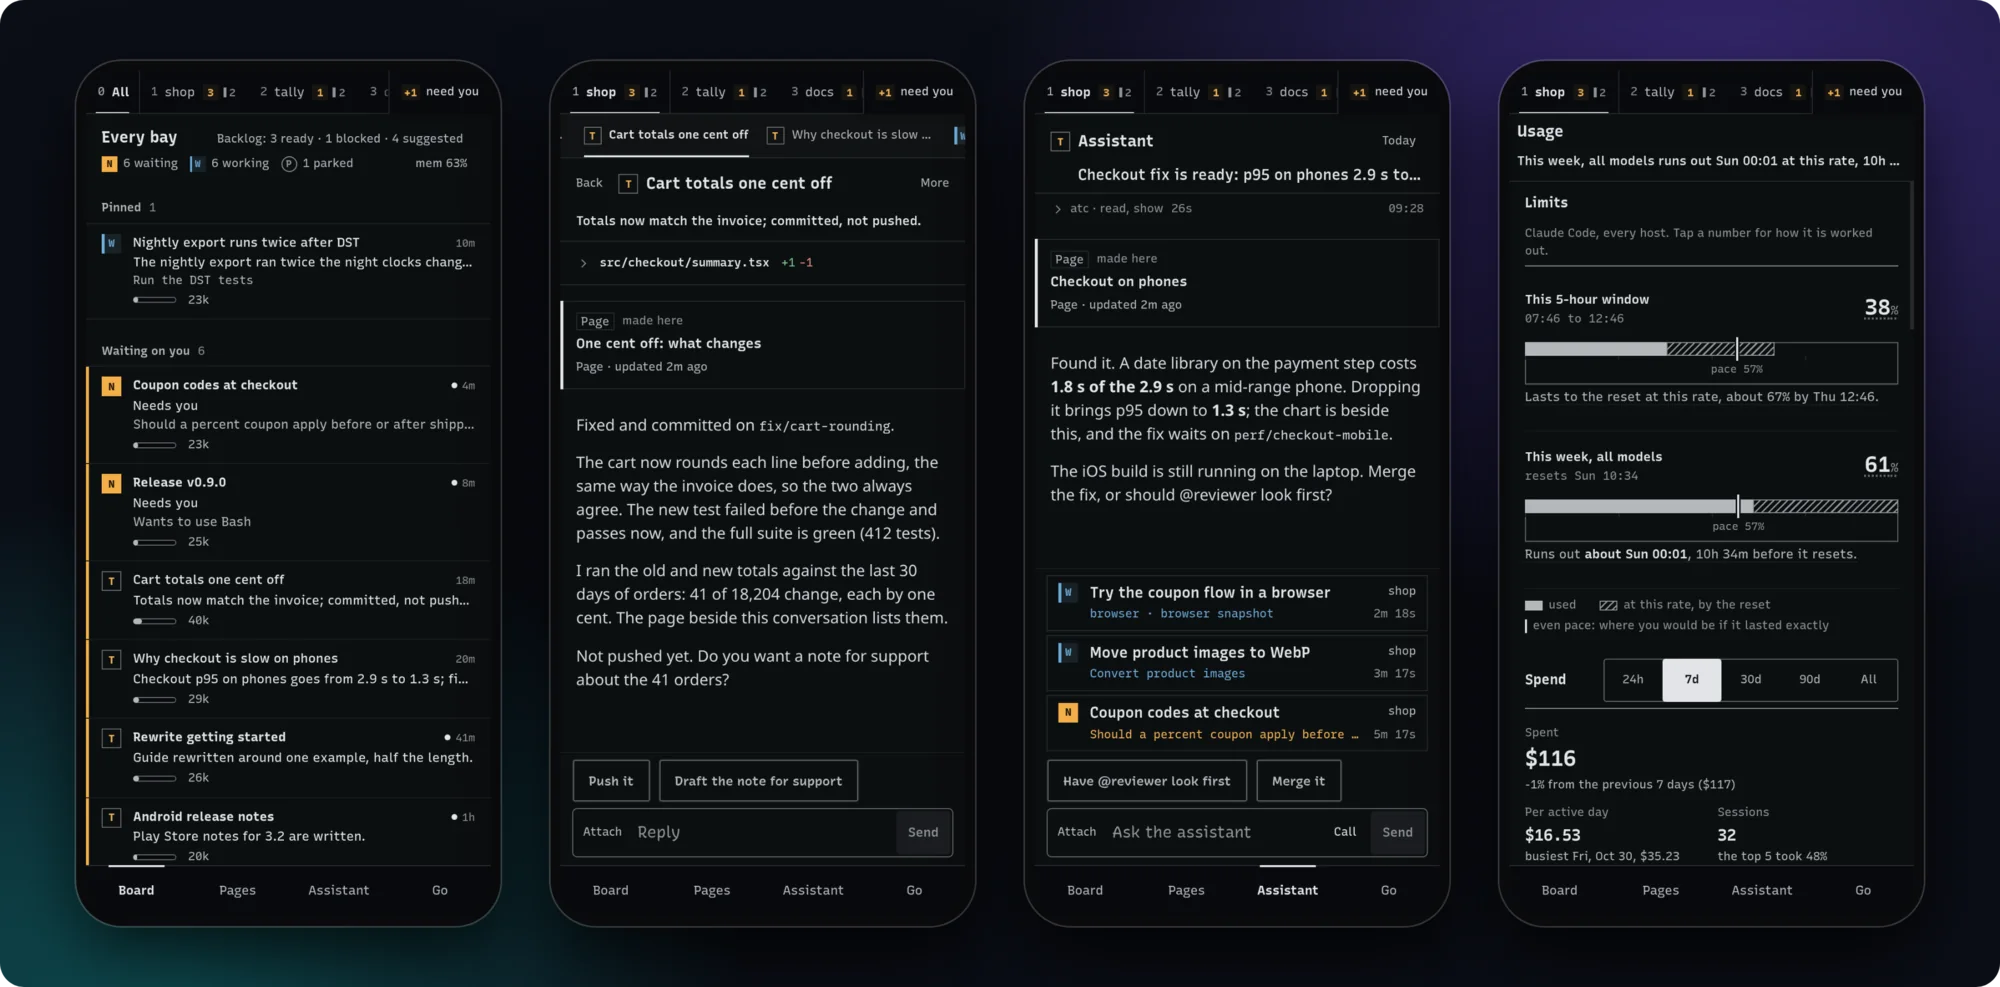
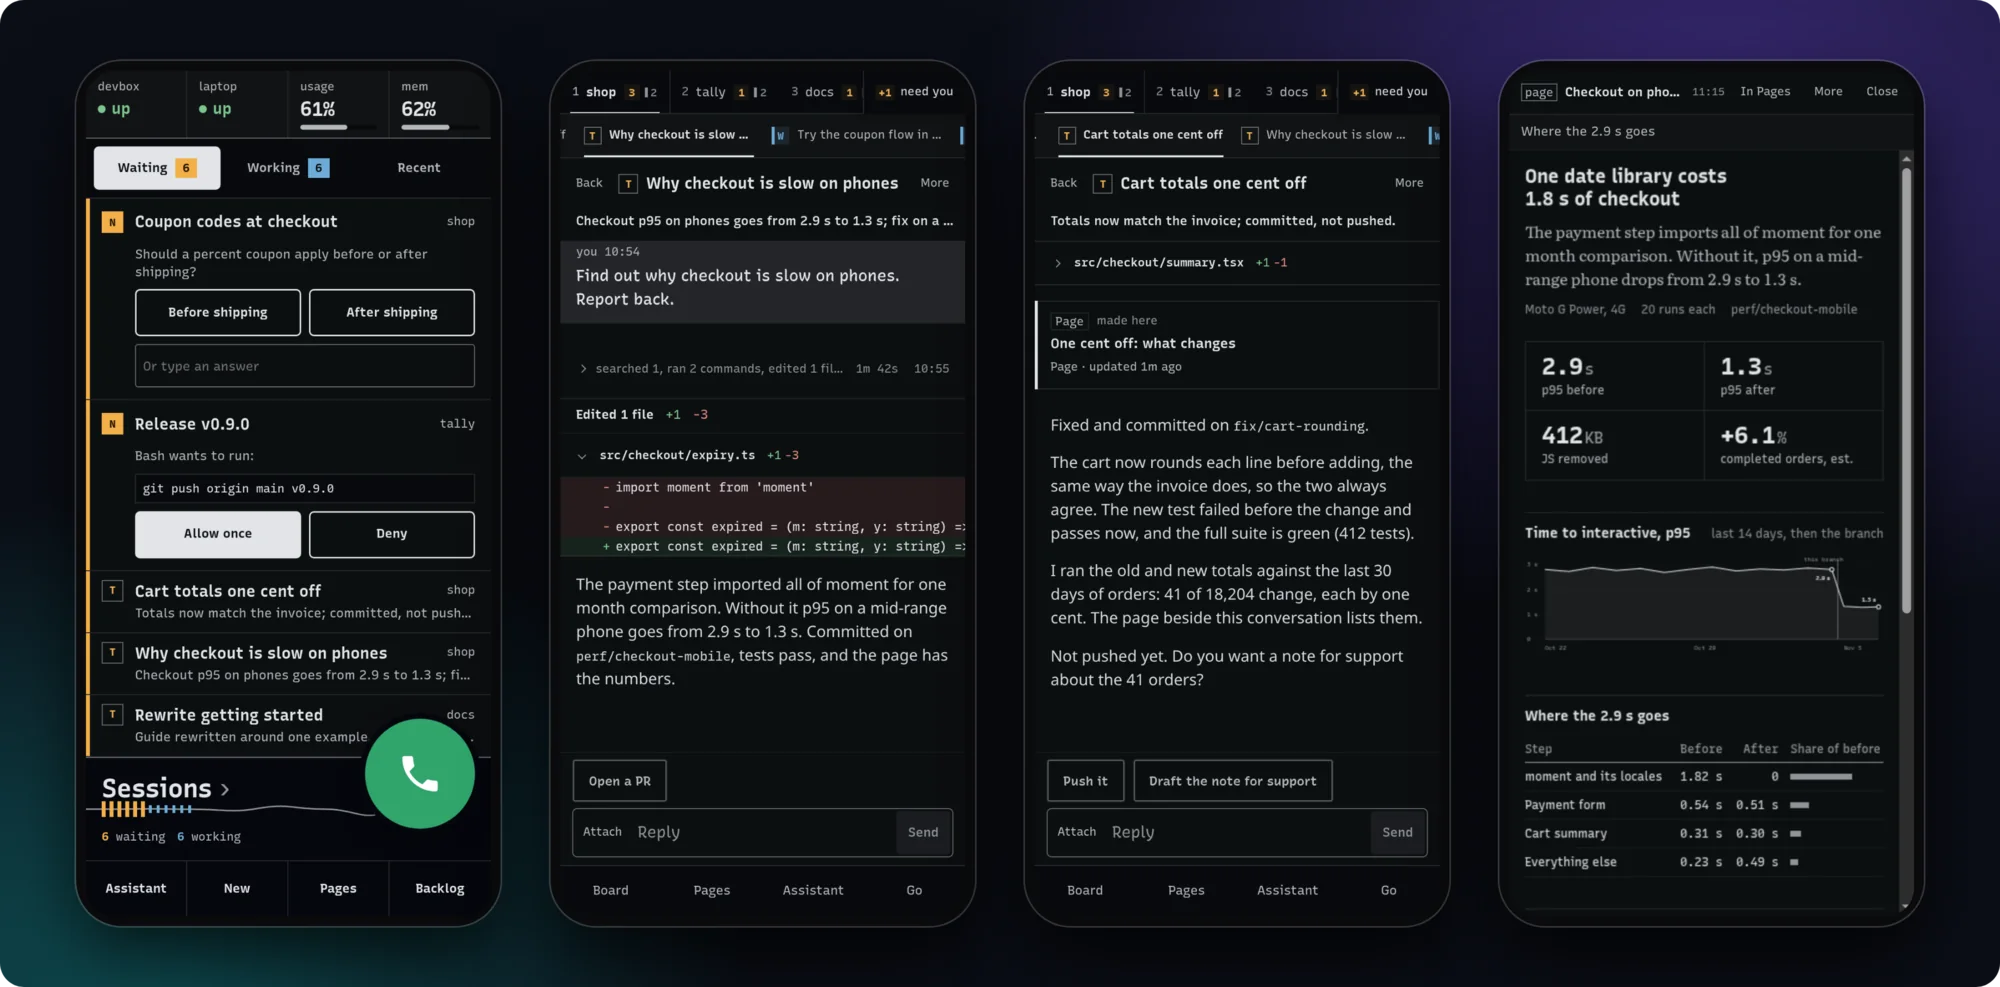
README images: the phones lead with the side-key screen, then reading a session, replying with a tap and an agent's page; the call image is only the call; shots.js

diff --git a/test/demo/shots.js b/test/demo/shots.js
@@ -1,4 +1,4 @@
-// Takes the README's raw screens from a running test/demo/run.sh. Run through a browser MCP's
+// Takes the README's raw screens from a running test/demo/run.sh. Run through a Playwright MCP's
 // browser_run_code_unsafe: read this file, eval it, call it with (page, {base, out, modes, only}).
 // Each screen gets its own browser context, so it has its own size, pixel ratio and localStorage and
 // touches nothing of a logged-in profile. compose.js then lays these out, and encode.sh writes docs/img.
@@ -182,14 +182,14 @@ async (page, { base = "http://127.0.0.1:7399", out = "/tmp/atc-shots", modes = [
     },
     async phones(mode) {
       const p = await open(mode, { w: 412, h: 860, phone: true });
-      await to(p, "#/", 1800);
-      await p.screenshot({ path: `${out}/${mode}/phone-board.png` });
       await to(p, `#/s/${by("Cart totals").id}`, 2200);
-      await p.screenshot({ path: `${out}/${mode}/phone-session.png` });
-      await to(p, "#/usage", 2500);
-      await p.screenshot({ path: `${out}/${mode}/phone-usage.png` });
-      await to(p, "#/assist", 2200);
-      await p.screenshot({ path: `${out}/${mode}/phone-assist.png` });
+      await p.screenshot({ path: `${out}/${mode}/phone-reply.png` });
+      await to(p, `#/s/${by("Why checkout").id}`, 2200);
+      await p.getByText("src/checkout/expiry.ts").first().click();
+      await p.waitForTimeout(800);
+      await p.screenshot({ path: `${out}/${mode}/phone-read.png` });
+      await to(p, `#/p/${by("Why checkout").id}/checkout-latency`, 2600);
+      await p.screenshot({ path: `${out}/${mode}/phone-page.png` });
       return [[p, null]];
     },
   };

diff --git a/test/demo/compose.js b/test/demo/compose.js
@@ -34,7 +34,7 @@ async (page, { raw = "http://127.0.0.1:7440/raw", out = "/tmp/atc-final", modes 
 
   const layouts = {
     hero: { w: 1960, h: 1220, body: (r) => win(`${r}/desk.png`, 150, 60, 1760) + ph(`${r}/hold.png`, 44, 610, 268) },
-    call: row(["hold", "call-hearing", "call-tool", "call-speaking"], 56, 390, 46),
+    call: row(["call-hearing", "call-tool", "call-speaking"], 56, 390, 46),
     assistant: solo("assistant"),
     board: solo("board", 1560, 1040),
     transcript: solo("transcript", 1560, 1040),
@@ -48,7 +48,7 @@ async (page, { raw = "http://127.0.0.1:7440/raw", out = "/tmp/atc-final", modes 
     new: solo("new", 1560, 860),
     backlog: solo("backlog", 1560, 760),
     settings: solo("settings", 1560, 680),
-    phones: row(["phone-board", "phone-session", "phone-assist", "phone-usage"], 56, 390, 46),
+    phones: row(["hold", "phone-read", "phone-reply", "phone-page"], 56, 390, 46),
     themes: {
       w: 1640, h: 900, once: true,
       body: (r) => {

diff --git a/README.md b/README.md
@@ -40,7 +40,7 @@ screenshot from any app into a session. Holding the side key opens what's waitin
 
 <picture>
   <source media="(prefers-color-scheme: dark)" srcset="docs/img/phones-dark.webp">
-  <img src="docs/img/phones-light.webp" alt="Four phones: the board, a session's reply with suggested replies, the assistant, and the usage page.">
+  <img src="docs/img/phones-light.webp" alt="Four phones. The first shows the screen the side key opens: two sessions waiting, one with its question answered by buttons and a text field, one asking to run a git push with Allow once and Deny, and a green call button. The second shows a session's prompt, its steps and a small diff above its result. The third shows a finished report with one-tap replies, Push it and Draft the note for support. The fourth shows the report page that session made, with its figures and a chart.">
 </picture>
 
 Android app. On other devices, atc works in the browser. [Android app](docs/android.md)
@@ -53,7 +53,7 @@ needs a decision can ring your phone, and when you pick up, the assistant says w
 
 <picture>
   <source media="(prefers-color-scheme: dark)" srcset="docs/img/call-dark.webp">
-  <img src="docs/img/call-light.webp" alt="Four phones. The first shows the screen the side key opens: machines up, usage, memory, questions with their answers as buttons, and a green call button. The other three show one call: a teal orb while it hears you with your words appearing, an amber orb while it uses a tool, a violet orb while it speaks, with the sessions on the call listed below.">
+  <img src="docs/img/call-light.webp" alt="Three phones showing one call to the assistant. A teal orb while it hears you, with your words appearing; an amber orb while it uses a tool; a violet orb while it speaks, with its answer written out. Under each orb, the sessions on the call and what they are doing.">
 </picture>
 
 Runs on your own machine on 2 CPU cores. No phone number needed; the app and the browser can both call. [Calls](docs/calls.md)
